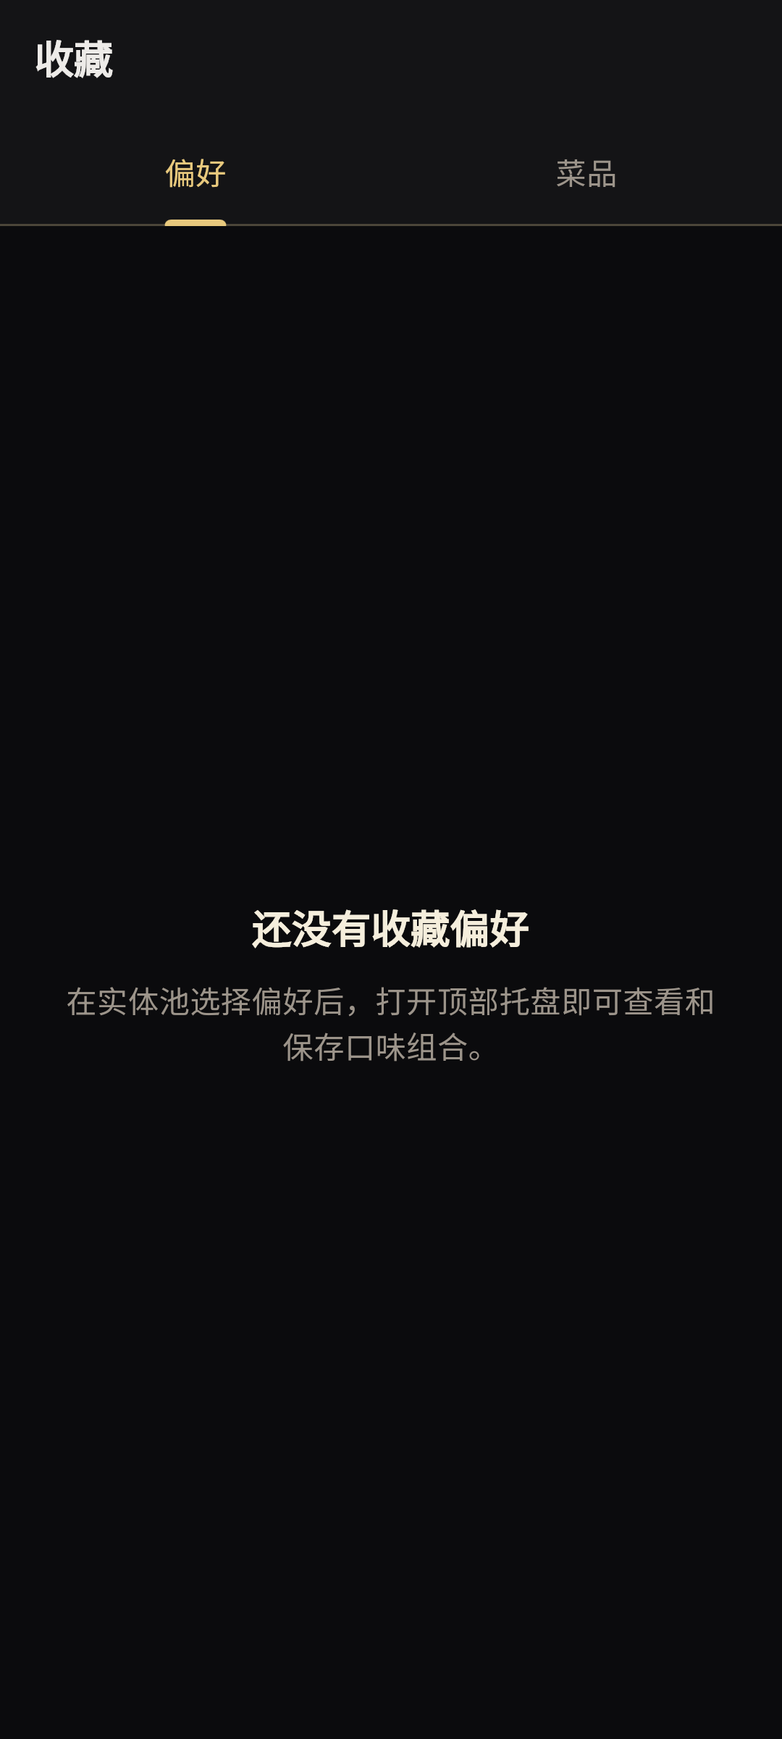
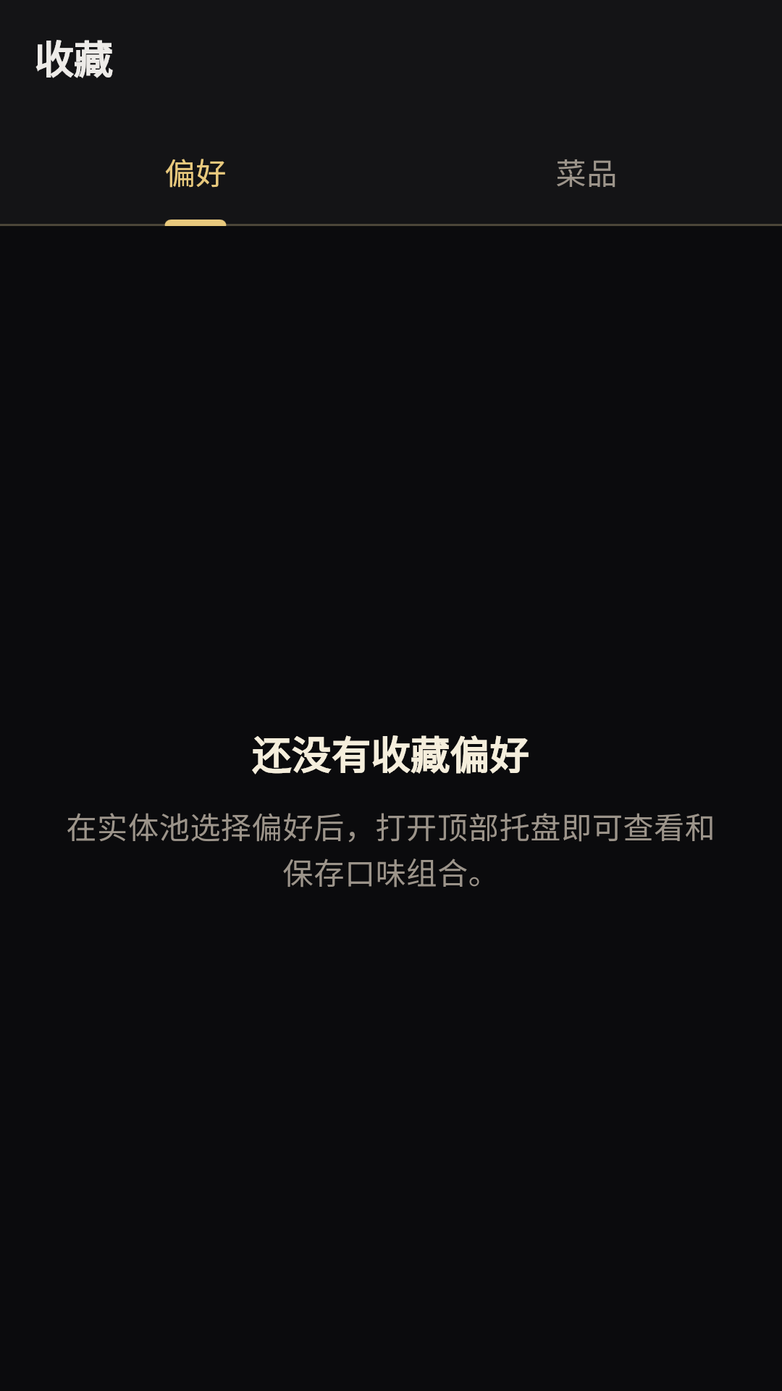
chore: 商店提审材料包——合规尺寸截图、图标头图、隐私政策页与双店文案
Play 截图重出 1080×1920（原 20:9 超 Play 宽高比上限）并预置引导种子去除遮罩；
新增 Play 512 图标与 1024×500 头图、隐私政策 HTML、双店文案与审核备注模板；
美团注册手册状态更新至 2026-10-04 认证实况。

diff --git a/docs/store_assets/privacy_policy.html b/docs/store_assets/privacy_policy.html
@@ -1,0 +1,52 @@
+<!DOCTYPE html>
+<html lang="zh-CN">
+<head>
+<meta charset="utf-8">
+<meta name="viewport" content="width=device-width, initial-scale=1">
+<title>《吃什么》隐私政策</title>
+<style>
+  body{font-family:-apple-system,"PingFang SC","Microsoft YaHei",sans-serif;line-height:1.8;color:#222;max-width:760px;margin:0 auto;padding:32px 20px;background:#faf9f7}
+  h1{font-size:26px} h2{font-size:19px;margin-top:28px} p,li{font-size:15px}
+  .meta{color:#777;font-size:13px}
+</style>
+</head>
+<body>
+<h1>《吃什么》隐私政策</h1>
+<p class="meta">运营主体：北京大圣之怒科技有限公司　|　生效日期：2026 年 10 月 4 日　|　联系邮箱：leecyno1@hotmail.com</p>
+
+<p>《吃什么》（以下简称“本应用”）是一款个性化饮食推荐应用。我们遵循“最少收集、本地优先”的原则处理你的信息。本政策说明我们收集哪些信息、为何收集、以及你如何控制。</p>
+
+<h2>一、仅存储在你设备上的信息</h2>
+<ul>
+  <li><strong>账号与登录状态：</strong>本应用采用本地账号体系，账号凭据经加密后仅保存在你的设备内，<strong>不提供云端同步</strong>。</li>
+  <li><strong>口味偏好、收藏、饮食记录与周报数据：</strong>均存储于设备本地数据库，用于生成个性化推荐；卸载应用或清除应用数据即彻底删除。</li>
+</ul>
+
+<h2>二、位置信息</h2>
+<p>仅在你主动使用“附近可配送门店”搜索时，本应用才请求定位。位置坐标用于检索周边门店；在外卖链路开通后，坐标会随搜索请求经我们自营服务器转发至美团外卖开放平台以完成门店与菜品查询。我们不在服务器长期留存你的位置历史。</p>
+
+<h2>三、语音输入</h2>
+<p>你可以长按麦克风用语音补充忌口或要求。语音识别由操作系统自带的语音服务（Apple / Google）完成转写；本应用<strong>不录制、不存储、不上传</strong>你的录音文件，仅使用转写后的文字。</p>
+
+<h2>四、AI 增强说明（可选服务）</h2>
+<p>当自营后端服务启用时，你的口味描述与候选菜品上下文会经我们自营服务器转发至 MiniMax 大模型接口，用于生成推荐理由与摘要；请求不携带你的姓名、证件号等身份信息。未部署该服务时，推荐完全由设备本地算法完成。</p>
+
+<h2>五、支付</h2>
+<p>会员购买通过支付宝官方渠道完成；本应用不接触、不存储你的银行卡号或支付密码。</p>
+
+<h2>六、第三方服务清单</h2>
+<ul>
+  <li>美团外卖开放平台（仅外卖链路开通且你主动授权后）；</li>
+  <li>MiniMax（仅 AI 增强服务启用时）；</li>
+  <li>支付宝（仅发起会员购买时）；</li>
+  <li>Apple / Google 系统语音识别服务（仅使用语音输入时）。</li>
+</ul>
+<p>本应用<strong>不集成任何广告 SDK 与第三方统计 SDK</strong>，不向广告主提供数据，不出售任何个人信息。</p>
+
+<h2>七、你的权利</h2>
+<p>你可以随时在系统设置中撤销位置、麦克风权限；可通过清除应用数据或卸载删除全部本地信息；也可通过上述邮箱查询、更正或删除与你相关的其他信息。我们将在 15 个工作日内回复。</p>
+
+<h2>八、儿童与政策变更</h2>
+<p>本应用不面向 14 周岁以下儿童收集任何信息。本政策如有变更，将在应用内与本页公示后生效。</p>
+</body>
+</html>

diff --git a/scripts/store_screenshots.py b/scripts/store_screenshots.py
@@ -7,11 +7,14 @@
 输出：docs/store_assets/<规格>_<页面>.png
 规格对应关系（viewport × deviceScaleFactor = 输出像素）：
   6.7inch  430×932  @3x = 1290×2796   App Store 6.7"
-  6.1inch  393×852  @3x = 1179×2556   App Store 6.1"
-  play     360×800  @3x = 1080×2400   Google Play 手机
+  6.1inch  393×852  @3x = 1179×2556   参考规格（App Store 不收 6.1"，仅备用）
+  play     360×640  @3x = 1080×1920   Google Play 手机（宽高比须 ≤9:16）
+
+可选参数：python3 scripts/store_screenshots.py [规格名] 仅重跑指定规格。
 """
 
 import os
+import sys
 from playwright.sync_api import sync_playwright
 
 BASE = 'http://localhost:8795/#'
@@ -21,7 +24,7 @@ os.makedirs(OUT, exist_ok=True)
 SIZES = {
     '6.7inch': (430, 932, 3),
     '6.1inch': (393, 852, 3),
-    'play': (360, 800, 3),
+    'play': (360, 640, 3),
 }
 
 PAGES = {
@@ -34,14 +37,21 @@ PAGES = {
 
 
 def main():
+    only = sys.argv[1] if len(sys.argv) > 1 else None
+    sizes = {only: SIZES[only]} if only else SIZES
     with sync_playwright() as p:
         browser = p.chromium.launch(channel='chrome', headless=True)
-        for name, (w, h, dsf) in SIZES.items():
+        for name, (w, h, dsf) in sizes.items():
             ctx = browser.new_context(
                 viewport={'width': w, 'height': h},
                 device_scale_factor=dsf,
                 is_mobile=True,
                 has_touch=True,
+            )
+            # 预置「已看过新手引导」与「首页引导卡已见」，避免遮罩遮挡商店截图
+            ctx.add_init_script(
+                "localStorage.setItem('flutter.has_seen_onboarding_v2','true');"
+                "localStorage.setItem('flutter.v2_home_generation_guide_seen','true');"
             )
             page = ctx.new_page()
             for label, route in PAGES.items():

diff --git a/docs/美团外卖开放平台注册手册.md b/docs/美团外卖开放平台注册手册.md
@@ -1,47 +1,145 @@
 # 美团外卖开放平台注册手册（P1-2）
 
-> 阻塞点：`.env` 里的 `MEITUAN_OPEN_APP_ID=2617865019071017` 未在美团 OAuth 系统注册，
-> 授权页预览接口返回 10005、页面静默白屏。这是外卖链路的唯一外部硬阻塞，
-> 必须线下完成注册后，代码侧即刻可用（链路已全部实现）。
+> 2026-10-01 核验：独立外卖平台支持创建应用，但接口上线仍受企业资质认证限制。
+> 用户已创建「吃什么」应用；控制台的认证链接实际指向 `developer.meituan.com/isv/register`，该表单明确列有「外卖通用解决方案」。
+> 自助申请路径存在，不等于免资质、免合同或免保证金；尚未获批或完成真实下单验收。
 
-## 一、去哪注册
+## 一、正确入口
 
-[美团开放平台](https://open.meituan.com) → 开发者入驻 → 创建「外卖/配送」类应用。
+**优先入口：[外卖通用解决方案](https://open.waimai.meituan.com/program/general) → [创建应用/管理平台](https://open.waimai.meituan.com/manage/basic)。**
 
-**资质要求**：外卖应用需企业主体——营业执照 + 对公账户验证。个人开发者无法注册此类应用；
-若当前无企业主体，此条路线需要先解决主体问题。
+官方原文：
 
-## 二、创建应用时要填的技术值
+- 「通过SDK、openH5、openAPI等形式，帮助第三方APP快速实现外卖功能」。
+- 「可以做到全流程自主接入，无需复杂的流程」。
+- 「通过订单实际支付金额返佣（技术合作中心CPS分成方案）」。
 
-| 字段 | 填什么 |
+| 域名 | 用途 |
 |---|---|
-| 应用类型 | 外卖（外卖开放平台，API 基座 `https://openapi.waimai.meituan.com`） |
-| 授权回调地址 | `https://<你的公网域名>/oauth/callback` —— 由 delivery adapter 提供（路由 `GET /oauth/callback`），**必须 https**，回调经 nginx/网关转到 adapter |
-| 授权范围 | `scope=all`（空值会让授权页只渲染 logo、授权按钮不出现——已踩过） |
+| `open.waimai.meituan.com` | 外卖通用方案及独立应用管理平台 |
+| `developer.meituan.com` | 综合能力中心、服务商/品牌商/个人开发者入口及文档 |
+| `developer.waimai.meituan.com` | 餐饮入口，访问时会跳到综合门户 |
+| `passport.meituan.com` | 美团统一账号登录 |
+| `openapi.waimai.meituan.com` | OAuth 与外卖 API 基座 |
+| `open.meituan.com` | 本次实测返回 OpenResty 默认页，不是上述外卖入口 |
 
-## 三、拿回什么、配到哪
+同一次内嵌浏览器会话已成功进入外卖管理平台，不需要另建浏览器 profile。用户补充基础资料后已创建「吃什么」应用，但尚未通过接口上线所需资质认证。
 
-注册通过后拿回 `app_id` 与 `app_secret`，更新 `.env`：
+接口权限页提示「您尚未进行资质认证，认证后才可以申请上线，资质暂只支持填写一次」。点击「去认证」，再进入[外卖通用解决方案开发者申请入口](https://developer.meituan.com/isv/register)，可以选择目标业务。
 
+当前认证表单要求：
+
+- 合作业务、可接入门店数、门店订单量、接口调用量、合作年限、主营业务和经营区域，须按实际情况填写。
+- 申请人姓名、手机号、邮箱、证件号、手持证件图片。
+- 营业执照信息及图片、法人姓名/手机号/证件号与正反面图片；三证合一无需另传组织机构代码证。
+- 电子合同签约人、公司简介；官方网站为非必填项。
+- WAF 安全产品情况、安全证明、信息安全人员情况、加盖企业公章的数据交互合规化承诺书。
+
+安全证明是必填项；本次选择外卖通用方案后，等保证明选项可选，而网络安全保险选项为禁用状态。禁用原因及是否有其它合规替代方式尚未确认，不能自行启用控件或直接推荐购买保险。
+
+页面流程为「资质认证 → 签署电子合同 → 缴纳保证金 → 入驻成功」，并注明保证金额度根据企业资质判定，未展示具体金额。尚未提交认证、签约或支付费用。
+
+## 二、产品能力与边界
+
+目标产品是「外卖通用解决方案」，不是商家 ERP 接单、连锁门店管理或配送发单。
+
+[综合能力页](https://developer.meituan.com/isv/waimai)明确列出适合「第三方APP」。官方文档列有：
+
+- 商家列表、商家详情、菜品列表、搜索建议。
+- 购物车价格计算、订单预览、提交订单、订单列表/详情、取消订单。
+- 预计送达时间、用户地址查询及新增/更新。
+
+这些是**文档化能力**；当前账号尚未完成权限申请与真实调用验收。
+
+消费者本人完成 OAuth 授权后才可调用相应用户接口，不是让消费者注册商家。
+OpenH5/SDK 是平台提供的页面或组件接入方式；不能与 App 自建界面通过 API 提交订单混为一谈。
+
+[提交订单文档](https://developer.meituan.com/docs/biz/biz_wmh5api_33922ecb-0ed8-4ab9-8894-6e46dd244e5d)明确提供 `POST /openapi/v1/order/submit`，返回订单号与 `payUrl`，随后跳转美团收银台完成支付。因此是 API 创建订单加平台收银台支付，不是无感扣款。
+该旧文档还列有未审核时仅可使用指定商家参数的限制；测试商家当前是否仍有效，须平台确认，不能随意在真实门店发测试订单。
+
+## 三、审核时效和未知条件
+
+[外卖通用方案常见问题](https://developer.meituan.com/docs/biz/biz_wmh5api_d6ad734f-18b9-49f4-8848-77f13a61d431)（页面更新时间 2021-08-20）原文：
+
+- 「API权限审核多久可以通过？」——「3个工作日内，可以审核通过。」
+- 「API是否支持免密支付」——「目前暂时不支持」。
+- 「最多可以发布多少个应用？」——「3个」。
+
+以上是旧文档给出的 API 权限审核口径，不是本次申请的时效承诺，更不是从注册到上线只需三天。
+本次实际认证表单已明确企业资质、合同和保证金步骤；当前主体是否获准、具体金额、支付方式及实际周期仍未确认。
+不得将其它业务的 5万/6万/10万元保证金要求直接套用到该产品，也不得据此宣称免费。
+
+独立外卖平台公开联系邮箱：`mtwm@meituan.com`；综合门户：`mtdeveloper@meituan.com`。若后续申请受限，再咨询准确准入条件；未代发邮件或签约。
+
+## 四、应用与服务端配置
+
+[OAuth 文档](https://developer.meituan.com/docs/biz/biz_wmh5api_da85b8ae-b59b-4c72-815a-af7048706db0)（更新于 2024-01-30）要求：
+「注册开发者帐号，并拥有一个已审核通过的网站应用，获得相应的 AppID 和 AppSecret」。
+
+取得获批凭据后，在服务端配置，不能打包到 Flutter 客户端：
+
+```dotenv
+MEITUAN_OPEN_APP_ID=<获批应用的 app_id>
+MEITUAN_OPEN_APP_SECRET=<获批应用的 app_secret>
+MEITUAN_OAUTH_REDIRECT_URL=https://<实际公网域名>/oauth/callback
+MEITUAN_OAUTH_SCOPE=
+MEITUAN_OPEN_ORDER_ENABLED=false
 ```
-MEITUAN_OPEN_APP_ID=<新 app_id>
-MEITUAN_OPEN_APP_SECRET=<新 app_secret>
-MEITUAN_OAUTH_REDIRECT_URL=https://<你的公网域名>/oauth/callback   # 当前未配，必须补
-MEITUAN_OPEN_ORDER_ENABLED=true                                   # 打开真实下单
-```
 
-> 注意：当前 `MEITUAN_OAUTH_REDIRECT_URL` 在 `.env` 里**缺失**——不补的话即使 app_id
-> 注册成功，授权链接里的 redirect_uri 也是空的。
+回调由 `scripts/meituan_delivery_adapter_server.dart` 提供，生产应使用 HTTPS，经网关转发。
+订单开关在获得相应权限、确认测试商家/支付方式后再开启；构建成功不代表真实下单已验收。
 
-## 四、注册后验证（三层健康检查）
+## 五、OAuth scope 与端点
 
-1. 代理存活：`GET /health` → `meituan: true`
-2. OAuth 状态：`GET /api/v1/delivery/oauth/status` → 走完一次授权后 `connected: true`
-3. 真实门店搜索：结果页「外卖到家」走完全程 → 返回真实商家列表（不再是 `meituan_oauth_required`）
+官方参数表：`scope | 是 | 应用授权作用域,填"" 即可`。默认保持空字符串。
+此前在授权预览返回 10005 时观察到的白屏，不能据此推断必须使用 `all`，也不能排除其它因素。
 
-## 五、排坑指南（历史诊断沉淀）
+| 端点 | 用途 | 当前源码情况 |
+|---|---|---|
+| `/oauth/authorize` | 获取授权 code | 已引用 |
+| `/oauth/access_token` | code 换 token | 已引用 |
+| `/oauth/refresh_token` | 续期 | 已引用 |
+| `/oauth/userinfo` | access_token 取用户信息 | 已引用 |
+| `/oauth/userinfo_openid` | open_id 取用户信息 | 文档有列出，当前服务未实现 |
 
-- **白屏先看 preview 接口返回码**：`code 10005` = app_id 未注册；`code 100` = 浏览器无美团登录态（换个已登录美团的浏览器）
-- **别用 QQ 内置浏览器授权**：X5 内核拦截 https→http 跳转，回调到不了服务端
-- **授权链接的 state 一次性、30 分钟过期**：白屏/过期就重新生成链接
-- **本地验收**：模拟器跑 App + 用 Chrome/Safari 完成授权；自动化浏览器（browser-use MCP）没有你的美团登录态，不能替代真人操作
+上述源码情况核验于 `scripts/meituan_oauth_service.dart`，不等于已获平台联调通过。
+`refresh_token` 失效后需重新授权；state 一次性使用，当前代码有效期 30 分钟。
+
+## 六、业务签名与密钥安全
+
+[快速接入](https://developer.meituan.com/docs/biz/biz_wmh5api_4bd84411-fbc1-4668-b1e6-8c5cf255b1f4)要求：
+
+1. 除 `sign` 外的认证参数和业务参数按参数名排序，用 `&` 连接。
+2. 拼接 `请求url + "?" + 排序参数 + secret_sign`。
+3. MD5 结果作为 `sign`。
+
+认证参数包含 Unix 秒级 `timestamp`、`app_id`、`access_token` 或 `open_id`。
+坐标文档口径为火星坐标系乘以 1000000。
+仓库已有 `MeituanOpenApiSigner`；实际请求参数、支付与回调仍须联调。
+
+官方要求 secret 和用户 token 保存在 App 云端服务器，由服务端中转调用。
+不要把 AppSecret、access_token、refresh_token 写入客户端、仓库、日志或截图。
+
+## 七、开通后的验收
+
+1. 代理 `/health` 可达，确认配置状态；健康检查不证明平台权限有效。
+2. 完成一次消费者 OAuth，检查 `/api/v1/delivery/oauth/status`。
+3. 使用真实位置查询门店与菜单，验证购物车价格及订单预览。
+4. 在平台允许的测试方式下，验证订单提交、支付、状态及回调；真实付费订单需用户确认。
+5. 再验证 App 的正常路径、失败提示与离页生命周期。
+
+未完成这些步骤前，不得写“代码侧全部就绪、只等密钥”。是否接受暂不提供外卖的版本，由用户决定。
+
+## 八、综合门户调查的适用范围
+
+综合门户 `/isv/newRegister` 的提示弹层关闭后，可以正常展开对接类型。
+本次列表包含到店餐饮、服务零售、酒旅民宿，以及数据分析、集成平台、手机厂商等类型，未见明确的「外卖通用方案」。
+这仅说明该表单未明确列出目标产品，**不能据此排除独立外卖平台的自助创建路径**。后续从独立平台认证页进入的 `/isv/register` 是另一份表单，明确列有外卖通用方案，并要求企业认证。
+
+品牌商通道面向连锁品牌；个人开发者读到的一份指南为酒旅 Skills。未穷尽其它能力，不推断用户缺少商标/门店，也不据此断言个人永远无法接入外卖。
+
+## 九、浏览器协作
+
+沿用已登录的内嵌 browser-use 浏览器。需用户扫码或验证时保持页面不动，收到完成消息再操作。
+不另开独立 profile，不强杀浏览器，不通过脚本绕过风控。
+截至 2026-10-04：`/isv/register` 企业认证表单已选「外卖通用解决方案」并填写《吃什么》产品简介；企业、法人、申请人信息均按已核实真实材料填齐；营业执照、法人身份证正反面、盖章数据交互合规化承诺书四张图片均已上传（上传接口返回 200）。承诺书已打印、手写负责人与联系方式并盖公章，拍照件与待补清单存档于桌面「材料/美团入驻补充材料」。尚未完成：申请人手持身份证实拍、安全证明（等保）口径、勾选协议与提交认证；提交后仍有电子合同与按资质判定的保证金环节。

diff --git a/docs/store_assets/store_copy.md b/docs/store_assets/store_copy.md
@@ -1,0 +1,69 @@
+# 商店文案（2026-10-04 版）
+
+## Google Play
+
+### 应用名称（30 字内）
+吃什么：今天吃啥一摇就有答案
+
+### 简短描述（80 字内）
+选择困难终结者：点选口味气泡、摇一摇翻锅，秒出个性化菜品推荐；冰箱剩啥反查能做菜，一周饮食报告帮你吃得更健康。
+
+### 完整描述（4000 字内）
+《吃什么》把「今天吃什么」这道每日难题变成一场轻松的小游戏。
+
+【摇一摇，有答案】
+首页是一锅会物理碰撞的口味气泡：食材、菜系、口味标签随重力堆叠。点选收下喜欢的、按住抓起犹豫的、拖到顶部收下／底部拉黑，摇一摇翻锅即刻生成一组候选菜。
+
+【推荐懂你的时段与近况】
+早餐推粥面、深夜推烧烤串串；近期吃过的菜自动短期降权，不会天天复读同一道。推荐结合本地菜谱库打分，附推荐理由与营养亮点。
+
+【冰箱找菜】
+家里剩什么就选什么，反查能做的菜，减少浪费不纠结。
+
+【做菜与到店两条路】
+选定一道菜后进入做菜模式：步骤、食材采购清单齐备；也可切换到店吃路径查看附近选择。
+
+【收藏与一周报告】
+收藏喜欢的菜；一周饮食报告汇总你的选择与营养倾向，帮你看见自己的口味轨迹。
+
+【隐私优先】
+账号与偏好仅存本机，无云端同步；无广告 SDK、无第三方统计 SDK。位置与麦克风仅在你主动使用附近门店搜索、语音输入时才启用。
+
+更多执行路径（外卖下单等）将在服务开通后陆续上线。
+
+## App Store
+
+### 名称（30 字内）
+吃什么-今天吃啥一摇就有答案
+
+### 副标题（30 字内）
+口味气泡摇一摇，秒出菜品推荐
+
+### 推广文本（170 字内）
+选择困难？点选口味气泡、摇一摇翻锅，立刻得到一组懂你时段与近况的菜品推荐；冰箱剩啥反查能做菜，一周饮食报告看见自己的口味轨迹。
+
+### 描述（4000 字内）
+《吃什么》把「今天吃什么」这道每日难题变成一场轻松的小游戏。
+
+摇一摇，有答案：首页是一锅会物理碰撞的口味气泡，食材、菜系、口味标签随重力堆叠。点选收下喜欢的、按住抓起犹豫的、拖到顶部收下／底部拉黑，摇一摇翻锅即刻生成候选菜。
+
+推荐懂你的时段与近况：早餐推粥面、深夜推烧烤串串；近期吃过的菜自动短期降权。推荐结合本地菜谱库打分，附推荐理由与营养亮点。
+
+冰箱找菜：家里剩什么就选什么，反查能做的菜，减少浪费不纠结。
+
+做菜与到店两条路：选定后进入做菜模式，步骤与食材采购清单齐备；也可切换到店吃路径。
+
+收藏与一周报告：收藏喜欢的菜；一周饮食报告汇总选择与营养倾向。
+
+隐私优先：账号与偏好仅存本机，无云端同步；无广告与第三方统计 SDK；位置与麦克风仅在你主动使用附近门店搜索、语音输入时启用。
+
+更多执行路径（外卖下单等）将在服务开通后陆续上线。
+
+### 关键词（100 字内，逗号分隔）
+吃什么,美食,菜谱,推荐,选择困难,今天吃什么,摇一摇,冰箱,家常菜,做饭,饮食报告,点餐
+
+## 共用素材索引
+- 图标：docs/store_assets/play_icon_512.png（Play 512×512）
+- 头图：docs/store_assets/play_feature_graphic_1024x500.png（Play 1024×500）
+- 截图：docs/store_assets/play_*.png（Play）；6.7inch_*.png、6.1inch_*.png（App Store）
+- 隐私政策：docs/store_assets/privacy_policy.html（需托管后填 URL）

diff --git a/docs/store_assets/review_notes.md b/docs/store_assets/review_notes.md
@@ -1,0 +1,26 @@
+# 提审备注与演示账号模板（2026-10-04 版）
+
+提交时把 `<...>` 占位替换为真实值；本文件仅作模板，勿把真实凭据提交进公开仓库。
+
+## Google Play「测试账号 / 应用访问说明」
+本应用核心功能（口味推荐、菜谱、收藏、周报）无需登录即可体验。
+如需体验会员与执行路径，请使用演示账号：
+用户名：<SEED_PHONE>
+密码：<SEED_PASSWORD>
+（该账号为应用内置本地共用演示账号，无服务端校验。）
+
+## Google Play「敏感权限用途声明」（麦克风）
+麦克风仅用于用户长按语音按钮时，将口述的忌口与要求经系统语音服务转写为文字；应用不录制、不存储、不上传录音。
+
+## App Store「App 审核信息 / 备注」
+1. 演示账号：<SEED_PHONE> / <SEED_PASSWORD>（内置本地共用账号）。核心功能无需登录。
+2. 外卖下单入口当前显示「外卖服务尚未开通」为预期降级态：该能力依赖美团开放平台资质审批，审批通过前不开放，审核时不会发生真实下单或支付。
+3. 位置权限仅在用户主动搜索附近门店时触发；麦克风与语音识别仅在长按语音输入时触发；两者均可拒绝且不影响核心推荐流程。
+4. 会员购买走支付宝官方渠道；审核时可不触发支付流程。
+5. 应用无广告、无第三方统计 SDK；账号与偏好数据仅存设备本地。
+
+## 数据安全 / 隐私标签申报口径（两店通用）
+- 收集：精确位置（仅附近门店搜索，经自营代理转发美团，不留存历史）、语音转写文本（设备端系统服务完成）、用户生成内容（口味偏好/收藏/记录，仅本地）。
+- AI 增强启用时：口味描述经自营服务器转发 MiniMax，不含身份信息。
+- 不收集：联系方式、证件号（会员实名信息仅存在于美团/支付宝侧）、财务信息（支付走支付宝）、健康医疗数据。
+- 用途：应用功能；不与广告/营销共享；不出售。
